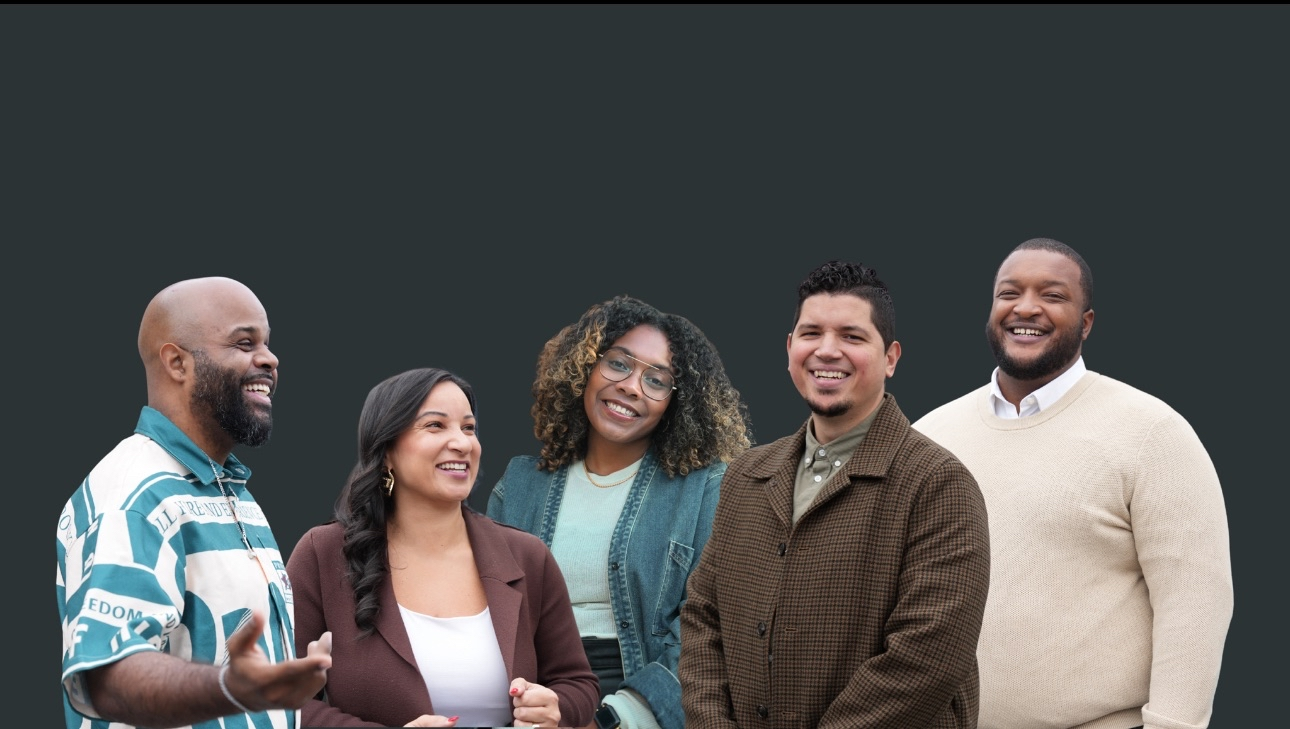
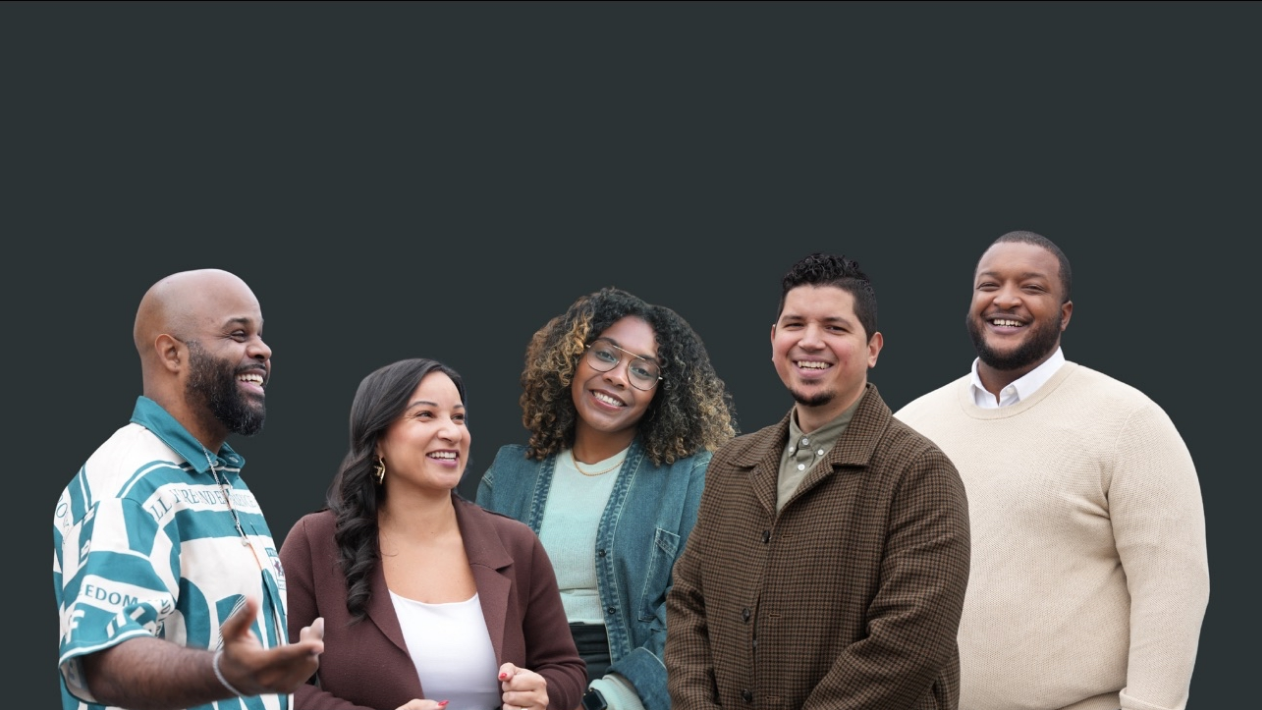
Changes

diff --git a/src/components/InteractiveTeamSection.tsx b/src/components/InteractiveTeamSection.tsx
@@ -1,0 +1,183 @@
+import React, { useState, useEffect, useRef } from "react";
+import teamPhoto from "@/assets/team-photo.jpg";
+
+interface TeamMember {
+  id: number;
+  name: string;
+  role: string;
+  blurb: string;
+  dotPosition: { top: string; left: string };
+  nameBoxPosition: { top: string; left: string };
+  blurbPosition: { top: string; left: string };
+}
+
+const teamMembers: TeamMember[] = [
+  {
+    id: 1,
+    name: "Ps. Carlos Ramirez, MAT",
+    role: "Senior Pastor",
+    blurb: "Pizza is always the answer (and the question)",
+    dotPosition: { top: "58%", left: "8%" },
+    nameBoxPosition: { top: "18%", left: "5%" },
+    blurbPosition: { top: "68%", left: "2%" },
+  },
+  {
+    id: 2,
+    name: "Ps. Cynthia Ramirez, M.Ed",
+    role: "Connections",
+    blurb: "Sunshine + sushi = my love language",
+    dotPosition: { top: "78%", left: "26%" },
+    nameBoxPosition: { top: "32%", left: "18%" },
+    blurbPosition: { top: "88%", left: "18%" },
+  },
+  {
+    id: 3,
+    name: "Ps. Lotus Graham, M.A.",
+    role: "Youth / Young Adults",
+    blurb: "You, me, and an oat cappuccino sounds perfect",
+    dotPosition: { top: "62%", left: "48%" },
+    nameBoxPosition: { top: "24%", left: "40%" },
+    blurbPosition: { top: "72%", left: "36%" },
+  },
+  {
+    id: 4,
+    name: "Ps. Adolfo Pichardo Jr., MBA",
+    role: "Spiritual Formation",
+    blurb: "Will trade sermon notes for cookies",
+    dotPosition: { top: "62%", left: "72%" },
+    nameBoxPosition: { top: "12%", left: "58%" },
+    blurbPosition: { top: "72%", left: "62%" },
+  },
+  {
+    id: 5,
+    name: "Ps. Christopher Graham, M.A., M.Ed",
+    role: "Youth / Young Adults",
+    blurb: "Ask me for a pic of my pup and the answer is always yes",
+    dotPosition: { top: "50%", left: "92%" },
+    nameBoxPosition: { top: "18%", left: "78%" },
+    blurbPosition: { top: "60%", left: "72%" },
+  },
+];
+
+const InteractiveTeamSection: React.FC = () => {
+  const [activeMember, setActiveMember] = useState<number | null>(null);
+  const [isMobile, setIsMobile] = useState(false);
+  const containerRef = useRef<HTMLDivElement>(null);
+
+  useEffect(() => {
+    const checkMobile = () => {
+      setIsMobile(window.innerWidth < 768);
+    };
+    checkMobile();
+    window.addEventListener("resize", checkMobile);
+    return () => window.removeEventListener("resize", checkMobile);
+  }, []);
+
+  useEffect(() => {
+    const handleClickOutside = (event: MouseEvent) => {
+      if (
+        containerRef.current &&
+        !containerRef.current.contains(event.target as Node)
+      ) {
+        setActiveMember(null);
+      }
+    };
+
+    document.addEventListener("mousedown", handleClickOutside);
+    return () => document.removeEventListener("mousedown", handleClickOutside);
+  }, []);
+
+  const handleDotClick = (id: number) => {
+    setActiveMember(activeMember === id ? null : id);
+  };
+
+  const handleDotHover = (id: number | null) => {
+    if (!isMobile) {
+      setActiveMember(id);
+    }
+  };
+
+  return (
+    <div
+      ref={containerRef}
+      className="relative w-full max-w-6xl mx-auto"
+      style={{ aspectRatio: "16/10" }}
+    >
+      {/* Background Image */}
+      <div className="absolute inset-0 bg-[#3d4a4f] rounded-lg overflow-hidden">
+        <img
+          src={teamPhoto}
+          alt="God's Voice Ministries Leadership Team"
+          className="w-full h-full object-cover object-top"
+        />
+      </div>
+
+      {/* Interactive Dots and Info Boxes */}
+      {teamMembers.map((member) => (
+        <React.Fragment key={member.id}>
+          {/* Name Box - Always visible when active */}
+          <div
+            className={`absolute z-20 transition-all duration-300 ease-out pointer-events-none ${
+              activeMember === member.id
+                ? "opacity-100 translate-y-0"
+                : "opacity-0 translate-y-2"
+            }`}
+            style={{
+              top: member.nameBoxPosition.top,
+              left: member.nameBoxPosition.left,
+            }}
+          >
+            <div className="bg-white rounded-lg px-4 py-2 shadow-lg text-center whitespace-nowrap">
+              <p className="text-black font-semibold text-sm md:text-base">
+                {member.name}
+              </p>
+              <p className="text-black text-xs md:text-sm">{member.role}</p>
+            </div>
+          </div>
+
+          {/* Interactive Dot */}
+          <button
+            onClick={() => handleDotClick(member.id)}
+            onMouseEnter={() => handleDotHover(member.id)}
+            onMouseLeave={() => handleDotHover(null)}
+            className={`absolute z-30 w-6 h-6 md:w-8 md:h-8 rounded-full border-2 border-white bg-white/30 backdrop-blur-sm cursor-pointer transition-all duration-200 hover:scale-110 hover:bg-white/50 focus:outline-none focus:ring-2 focus:ring-white focus:ring-offset-2 focus:ring-offset-transparent ${
+              activeMember === member.id ? "bg-white/60 scale-110" : ""
+            }`}
+            style={{
+              top: member.dotPosition.top,
+              left: member.dotPosition.left,
+              transform: "translate(-50%, -50%)",
+            }}
+            aria-label={`Learn more about ${member.name}`}
+            aria-expanded={activeMember === member.id}
+          >
+            <span className="sr-only">
+              Click to learn about {member.name}, {member.role}
+            </span>
+          </button>
+
+          {/* Blurb Box */}
+          <div
+            className={`absolute z-20 transition-all duration-300 ease-out pointer-events-none ${
+              activeMember === member.id
+                ? "opacity-100 translate-y-0"
+                : "opacity-0 translate-y-2"
+            }`}
+            style={{
+              top: member.blurbPosition.top,
+              left: member.blurbPosition.left,
+            }}
+          >
+            <div className="bg-white rounded-lg px-4 py-3 shadow-lg max-w-[200px] md:max-w-[240px]">
+              <p className="text-black text-xs md:text-sm text-center leading-relaxed">
+                {member.blurb}
+              </p>
+            </div>
+          </div>
+        </React.Fragment>
+      ))}
+    </div>
+  );
+};
+
+export default InteractiveTeamSection;

diff --git a/src/pages/AboutUs.tsx b/src/pages/AboutUs.tsx
@@ -1,8 +1,8 @@
 import React from "react";
 import Header from "@/components/Header";
 import Footer from "@/components/Footer";
+import InteractiveTeamSection from "@/components/InteractiveTeamSection";
 import pastorsFamily from "@/assets/pastors-family.png";
-import teamPhoto from "@/assets/team-photo.jpg";
 
 const AboutUs = () => {
   return (
@@ -49,11 +49,7 @@ const AboutUs = () => {
           </h2>
           
           <div className="mb-16">
-            <img 
-              src={teamPhoto} 
-              alt="God's Voice Ministries Team" 
-              className="w-full h-auto"
-            />
+            <InteractiveTeamSection />
           </div>
 
           <h3 className="text-4xl font-normal mb-12">
